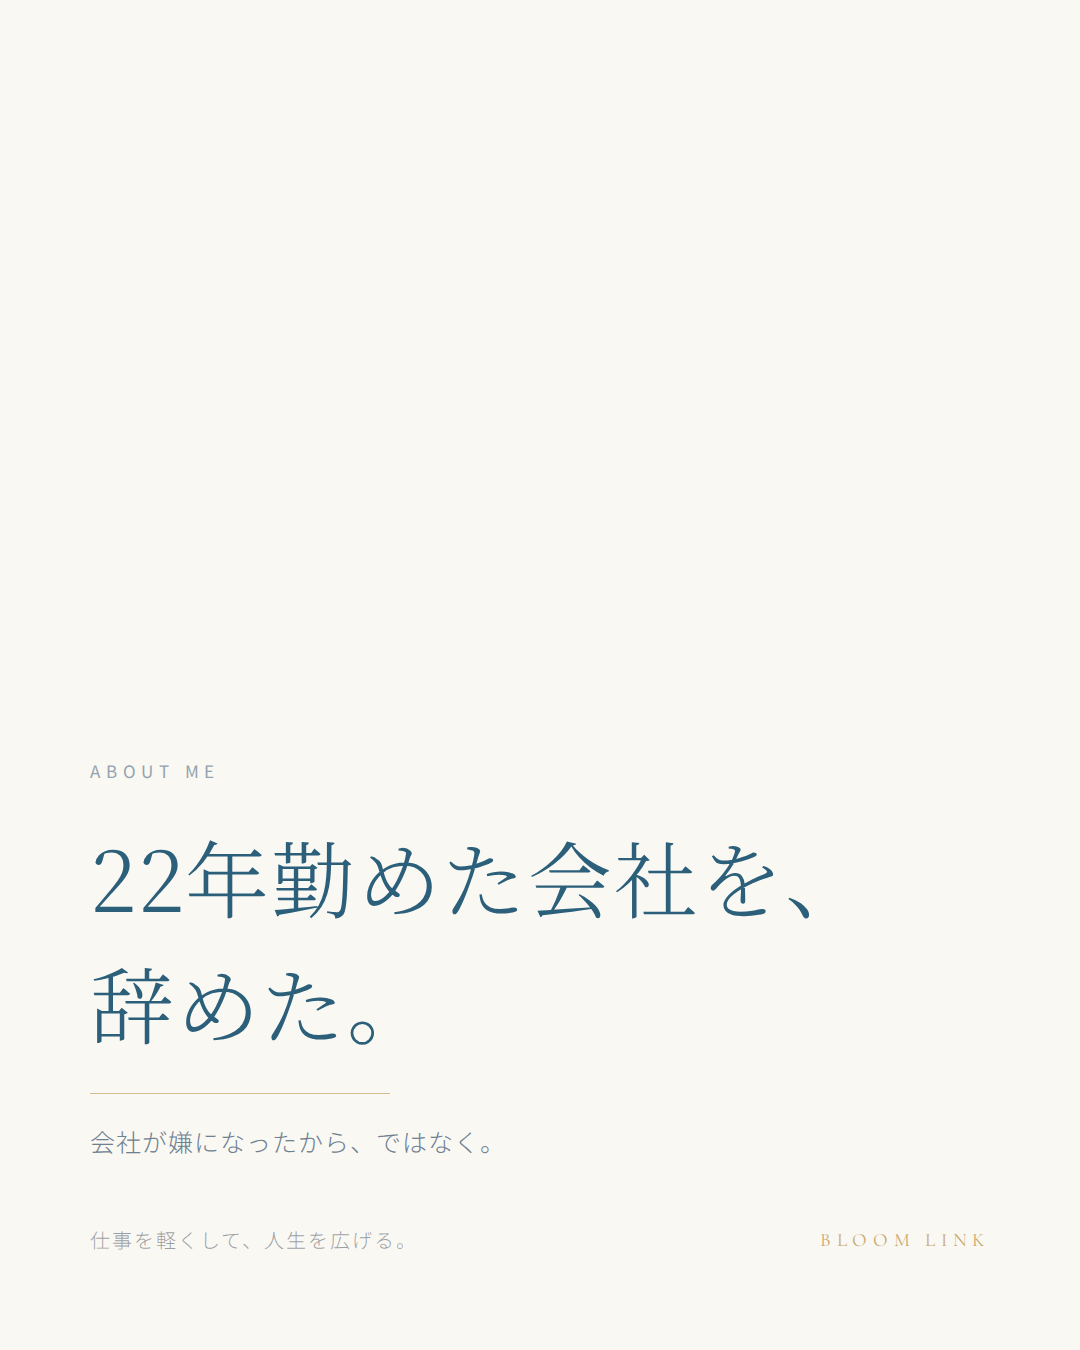
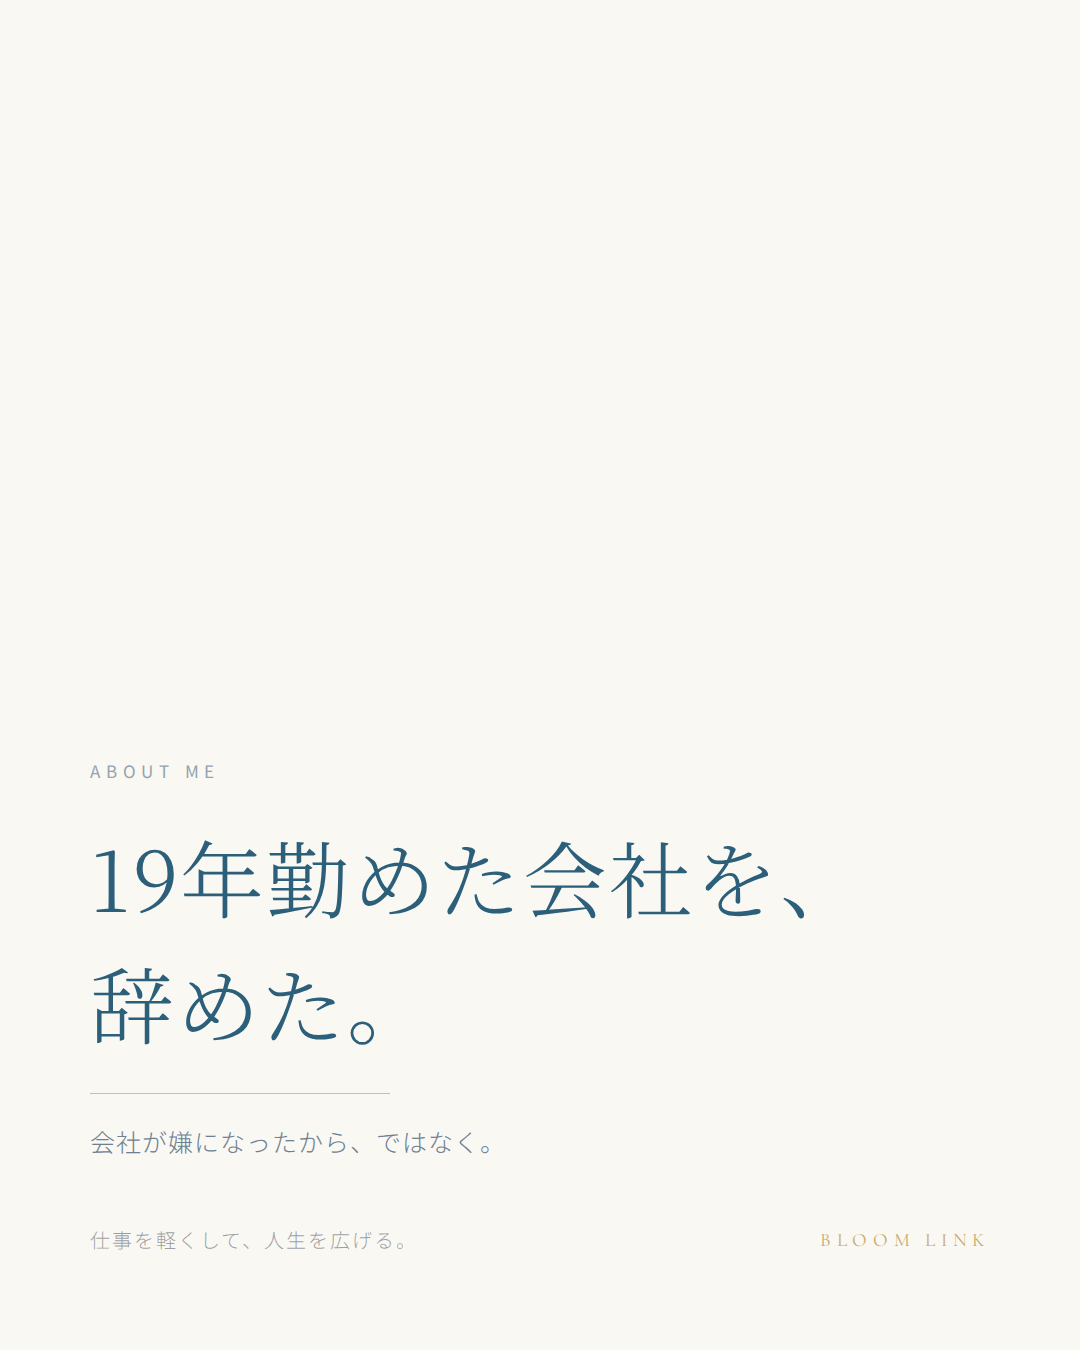
02の年数を修正。会社は19年、会社員としては22年
見出しが「22年勤めた会社」で、会社での年数と会社員としての年数を
混同していた。事実は会社が19年、会社員としての合計が22年。

- 見出しを「19年勤めた会社を、辞めた。」へ
- 本文の冒頭で両方を出し、読む人が混乱しないようにした
    会社員として22年。
    そのうち19年を、この会社で過ごしました。
- 引っ越しセットの記載も合わせた

プロフィールの定型ブロックの「会社員22年」は合っているので触っていない。

Claude-Session: https://claude.ai/code/session_018TyEhHEDE4a9HFdLJk5hvJ

Changed region(s): [[0.0917, 0.6222, 0.4583, 0.6844], [0.4889, 0.6222, 0.7028, 0.6844], [0.7333, 0.6533, 0.7639, 0.6844]]

diff --git a/src/instagram9/posts.js b/src/instagram9/posts.js
@@ -138,13 +138,19 @@ ${PROFILE_FOOTER}`,
     category: 'ABOUT ME',
     variant: 'ivory',
     photos: [],
-    headline: ['22年勤めた会社を、', '辞めた。'],
+    headline: ['19年勤めた会社を、', '辞めた。'],
     sub: '会社が嫌になったから、ではなく。',
     headlineSize: 84,
     role: '決断。脱サラ成功物語にしない。会社員時代を否定しない。',
     photoNote: '写真なし。タイポグラフィのみで「決断」の重さを出す。',
-    // note記事「19年間勤めた会社を卒業」から。年数は本文に入れず、見出しだけで扱う。
-    caption: `02｜22年勤めた会社を、辞めた。
+    /*
+     * 年数は2つある。会社員としては22年、この会社では19年。
+     * 見出しは会社での年数（19年）。混同を避けるため、本文の冒頭で両方を出す。
+     */
+    caption: `02｜19年勤めた会社を、辞めた。
+
+会社員として22年。
+そのうち19年を、この会社で過ごしました。
 
 会社が嫌で辞めたわけではありません。
 むしろ、感謝しかありません。

diff --git a/docs/instagram-9-引っ越しセット.md b/docs/instagram-9-引っ越しセット.md
@@ -172,7 +172,7 @@ Instagramのプロフィールは**新しい投稿が左上**に来ます。
 - **写真** 普段着で日常の場面。格式より生活が写っているもの。後ろ姿や手元でも可
 
 ### 02｜ABOUT ME
-- **見出し**「22年勤めた会社を、／ 辞めた。」
+- **見出し**「19年勤めた会社を、／ 辞めた。」
 - **サブ**「会社が嫌になったから、ではなく。」
 - **構成** 写真なし。タイポグラフィのみ
 - **意図** 決断。脱サラ成功物語にしない。会社員時代を否定しない
